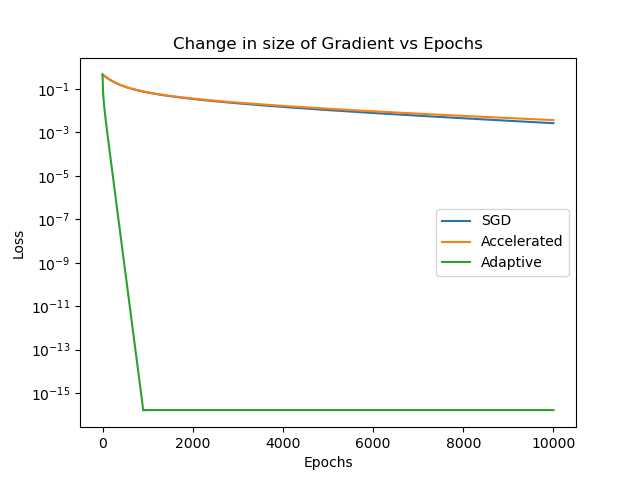
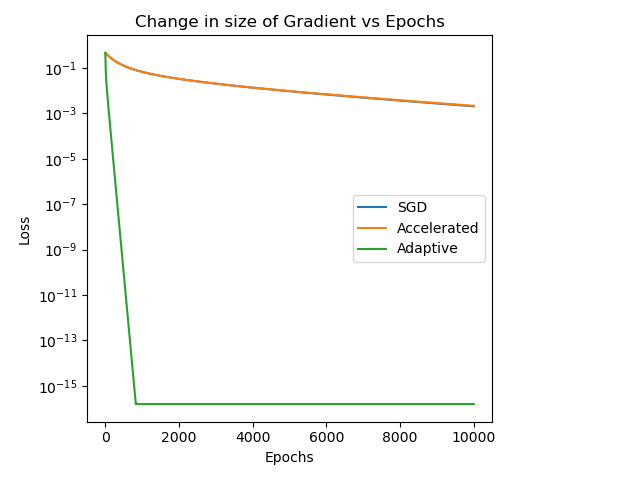
fixed graph bug

diff --git a/logistic.py b/logistic.py
@@ -1,7 +1,6 @@
 import numpy as np
 import matplotlib.pyplot as plt
 import pandas as pd
-import seaborn as sns
 from sklearn.utils import shuffle
 from sklearn.preprocessing import StandardScaler
 from sklearn.metrics import recall_score, precision_score
@@ -190,6 +189,7 @@ if __name__ == '__main__':
     plt.title("Loss vs Epochs")
     plt.xlabel("Epochs")
     plt.ylabel("Loss")
+    plt.tight_layout()
     plt.savefig("learning_rate.png")
     plt.clf()
     print("Testing Stochastic Gradient Descent.")
